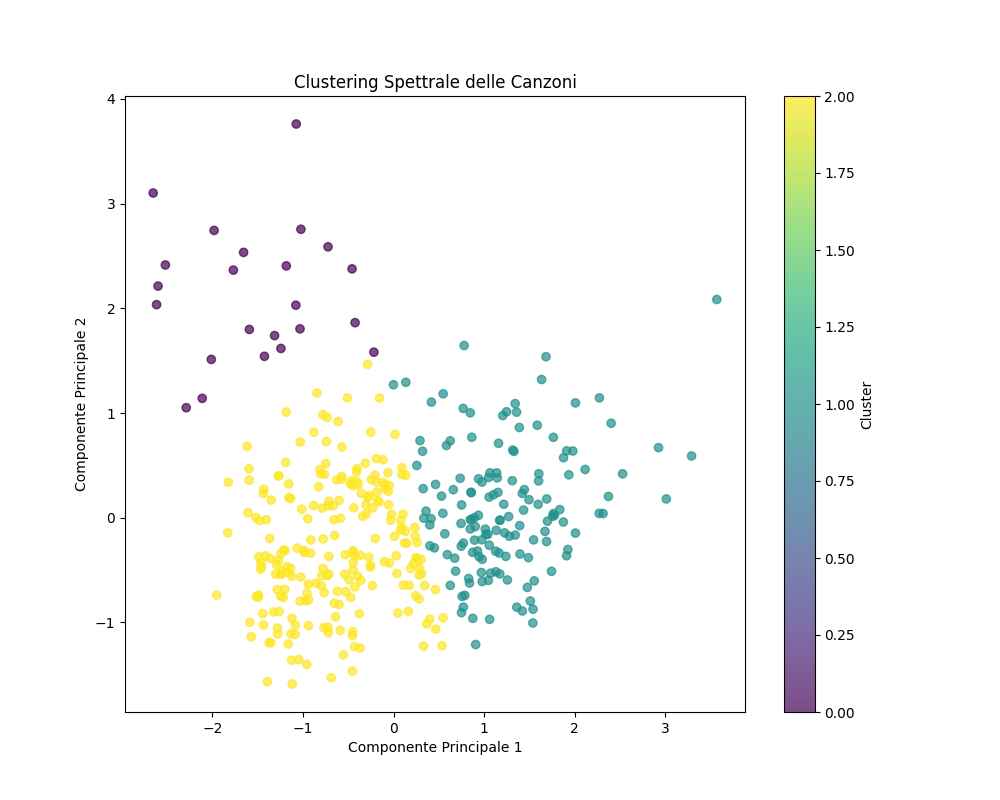
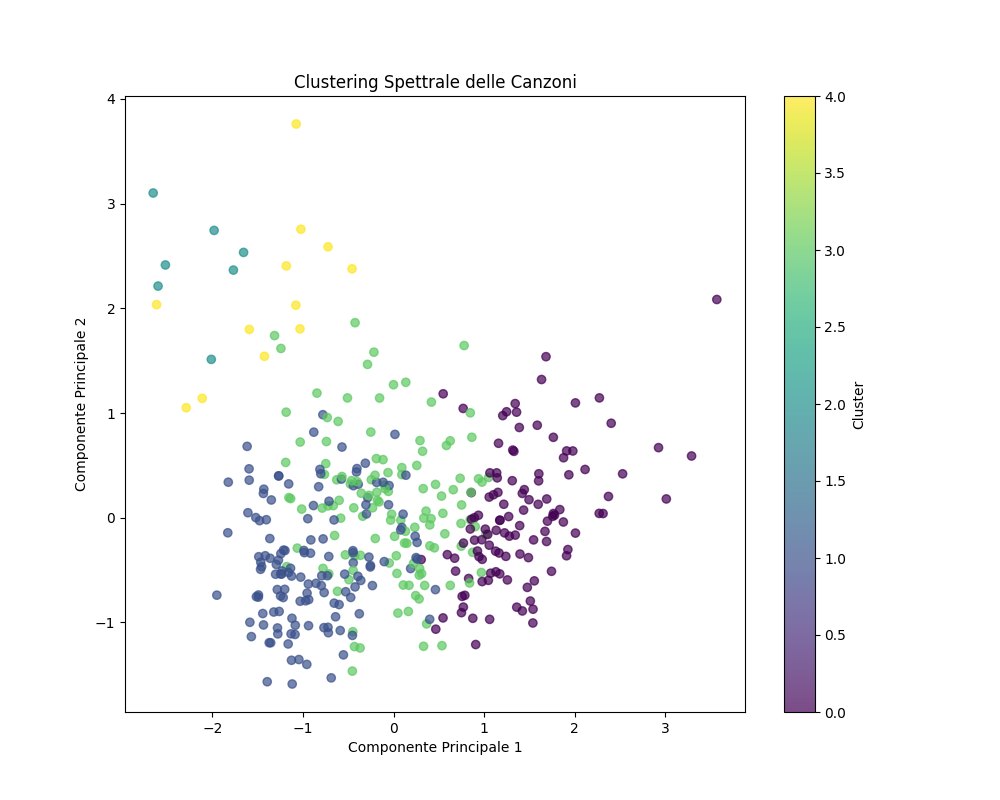
feat: silhouette score evaluation for n clusters (spectral clustering)

diff --git a/main.py b/main.py
@@ -1,18 +1,19 @@
 import numpy as np
 from sklearn.preprocessing import MinMaxScaler
 from sklearn.decomposition import PCA
-from lib.data_clustering import spectral_clustering_classifier, trova_brani_rappresentativi, valuta_cluster
+from lib.data_clustering import spectral_clustering_classifier, trova_brani_rappresentativi, valuta_clustering, \
+    silhouette_score_analysis_spectral_clustering
 from lib.extract_data_features import get_audio_features
-from lib.utils import salva_risultati_markdown, visualizza_tsne, analizza_cluster, visualizza_risultati
+from lib.utils import salva_risultati_markdown, visualizza_tsne, analizza_cluster, plot_clusters_results
 
 CSV_FEATURE_FILENAME = "dataset/audio_features.csv"
 SONGS_DIR = "dataset/songs"  # Cambia con il percorso della tua cartella di canzoni
 RESULTS = "clustering_results"
 
-N_CLUSTERS = 3  # Numero di cluster da creare
-PCA_COMPONENTS = 0.98  # Percentuale di varianza da mantenere con PCA
+N_CLUSTERS = 5  # Numero di cluster da creare
+PCA_COMPONENTS = 0.98 # Percentuale di varianza da mantenere con PCA
 
-SPECTRAL_CLUSTERING_GAMMA = 0.1  # Parametro gamma per lo spectral clustering
+SPECTRAL_CLUSTERING_GAMMA = 0.2  # Parametro gamma per lo spectral clustering
 
 if __name__ == "__main__":
     print("Caricamento delle feature audio...")
@@ -38,21 +39,23 @@ if __name__ == "__main__":
     print("Shape feature array dopo PCA:", features_reduced.shape)
 
     print(f"Esecuzione del spectral clustering con {N_CLUSTERS} cluster...")
-    labels = spectral_clustering_classifier(features=features_reduced, n_clusters=N_CLUSTERS, gamma=SPECTRAL_CLUSTERING_GAMMA)
+    spectral_clustering_labels = spectral_clustering_classifier(features=features_reduced, n_clusters=N_CLUSTERS, gamma=SPECTRAL_CLUSTERING_GAMMA)
 
     print("Classificazione completata!")
-    visualizza_risultati(filenames, features_reduced, labels, RESULTS + "/clusters_plot.png")
+    plot_clusters_results(filenames, features_reduced, spectral_clustering_labels, RESULTS + "/clusters_plot.png")
 
     print("Analisi dei cluster...")
-    analizza_cluster(features_reduced, labels)
-    trova_brani_rappresentativi(features_reduced, labels, filenames)
-    visualizza_tsne(features_reduced, labels, filenames, RESULTS + "/tsne_clusters_plot.png")
-    valuta_cluster(features_reduced, labels, RESULTS + "/cluster_evaluation.png")
+    analizza_cluster(features_reduced, spectral_clustering_labels)
+    trova_brani_rappresentativi(features_reduced, spectral_clustering_labels, filenames)
+    visualizza_tsne(features_reduced, spectral_clustering_labels, filenames, RESULTS + "/tsne_clusters_plot.png")
+
+    valuta_clustering(features_reduced, spectral_clustering_labels)
+    silhouette_score_analysis_spectral_clustering(features_reduced, gamma=SPECTRAL_CLUSTERING_GAMMA, range_k=(2, 20), fig_name=RESULTS + "/silhouette_analysis_spectral_clustering.png")
 
     print("Generazione report Markdown...")
     # Report principale (sulle feature ridotte usate per il clustering)
-    report_path = salva_risultati_markdown(filenames, features_reduced, labels, feature_names=None, path=RESULTS + "/report.md", n_repr=5, generi=music_genres)
+    report_path = salva_risultati_markdown(filenames, features_reduced, spectral_clustering_labels, feature_names=None, path=RESULTS + "/report.md", n_repr=5, generi=music_genres)
     # Report opzionale con statistiche sulle feature originali normalizzate (senza PCA) usando i nomi
-    report_detailed_path = salva_risultati_markdown(filenames, features_norm_original, labels, feature_names=features_names, path=RESULTS + "/report_dettagliato_feature_originali.md", n_repr=5, generi=music_genres)
+    report_detailed_path = salva_risultati_markdown(filenames, features_norm_original, spectral_clustering_labels, feature_names=features_names, path=RESULTS + "/report_dettagliato_feature_originali.md", n_repr=5, generi=music_genres)
     print(f"Report generato: {report_path}")
     print(f"Report dettagliato generato: {report_detailed_path}")

diff --git a/lib/data_clustering.py b/lib/data_clustering.py
@@ -28,7 +28,6 @@ def spectral_clustering_classifier(features, n_clusters=5, gamma=1.0):
 
     # Addestra il modello e ottieni le etichette
     labels = model.fit_predict(affinity_matrix)
-
     return labels
 
 
@@ -50,35 +49,45 @@ def trova_brani_rappresentativi(features, labels, filenames, n=3):
             print(f"  - {filenames[cluster_idx[i]]}")
 
 
-def valuta_cluster(features, labels, fig_name='clustering_results/cluster_evaluation.png', show_fig=False):
+def valuta_clustering(features, labels):
     silhouette = silhouette_score(features, labels)
     davies_bouldin = davies_bouldin_score(features, labels)
-
     print(f"Silhouette Score: {silhouette:.3f} (più alto è migliore, max 1)")
     print(f"Davies-Bouldin Index: {davies_bouldin:.3f} (più basso è migliore)")
 
-    # Prova diversi numeri di cluster
+
+def silhouette_score_analysis_spectral_clustering(features, gamma=0.1, range_k=(2, 20), fig_name='clustering_results/silhouette_analysis_spectral_clustering.png', show_fig=False):
+    """Esegue un'analisi dello silhouette score per diversi numeri di cluster
+    utilizzando lo spectral clustering. Restituisce i risultati come lista di tuple (k, silhouette_score).
+    """
     risultati = []
-    for k in range(2, 20):
+    for k in range(range_k[0], range_k[1]):
         try:
-            labels_k = spectral_clustering_classifier(features, n_clusters=k)
+            labels_k = spectral_clustering_classifier(features, n_clusters=k, gamma=gamma)
             sil = silhouette_score(features, labels_k)
             risultati.append((k, sil))
         except:
             pass
 
-    # Visualizza i risultati
+    # Plot dei risultati
     k_values = [r[0] for r in risultati]
     sil_values = [r[1] for r in risultati]
+
+    best_idx = int(np.argmax(sil_values))
+    best_k = k_values[best_idx]
+    best_sil = sil_values[best_idx]
+
     plt.figure(figsize=(10, 6))
     plt.plot(k_values, sil_values, 'o-')
     plt.xlabel('Numero di cluster')
     plt.ylabel('Silhouette Score')
-    plt.title('Valutazione del numero ottimale di cluster')
+    plt.title(f'Valutazione del numero ottimale di cluster (k={best_k}, Silhouette={best_sil:.3f})')
     plt.grid(True)
     plt.savefig(fig_name)
     if show_fig:
         plt.show()
+
+    return risultati
 
 
 def distribuzione_generi_per_cluster(labels, generi):

diff --git a/lib/utils.py b/lib/utils.py
@@ -9,7 +9,7 @@ from sklearn.metrics import silhouette_score, davies_bouldin_score
 
 from lib.data_clustering import distribuzione_generi_per_cluster
 
-def visualizza_risultati(filenames, features, labels, fig_name='clustering_results/clusters.png', show_fig=False):
+def plot_clusters_results(filenames, features, labels, fig_name='clustering_results/clusters.png', show_fig=False):
     """
     Visualizza i risultati della clusterizzazione.
     """
